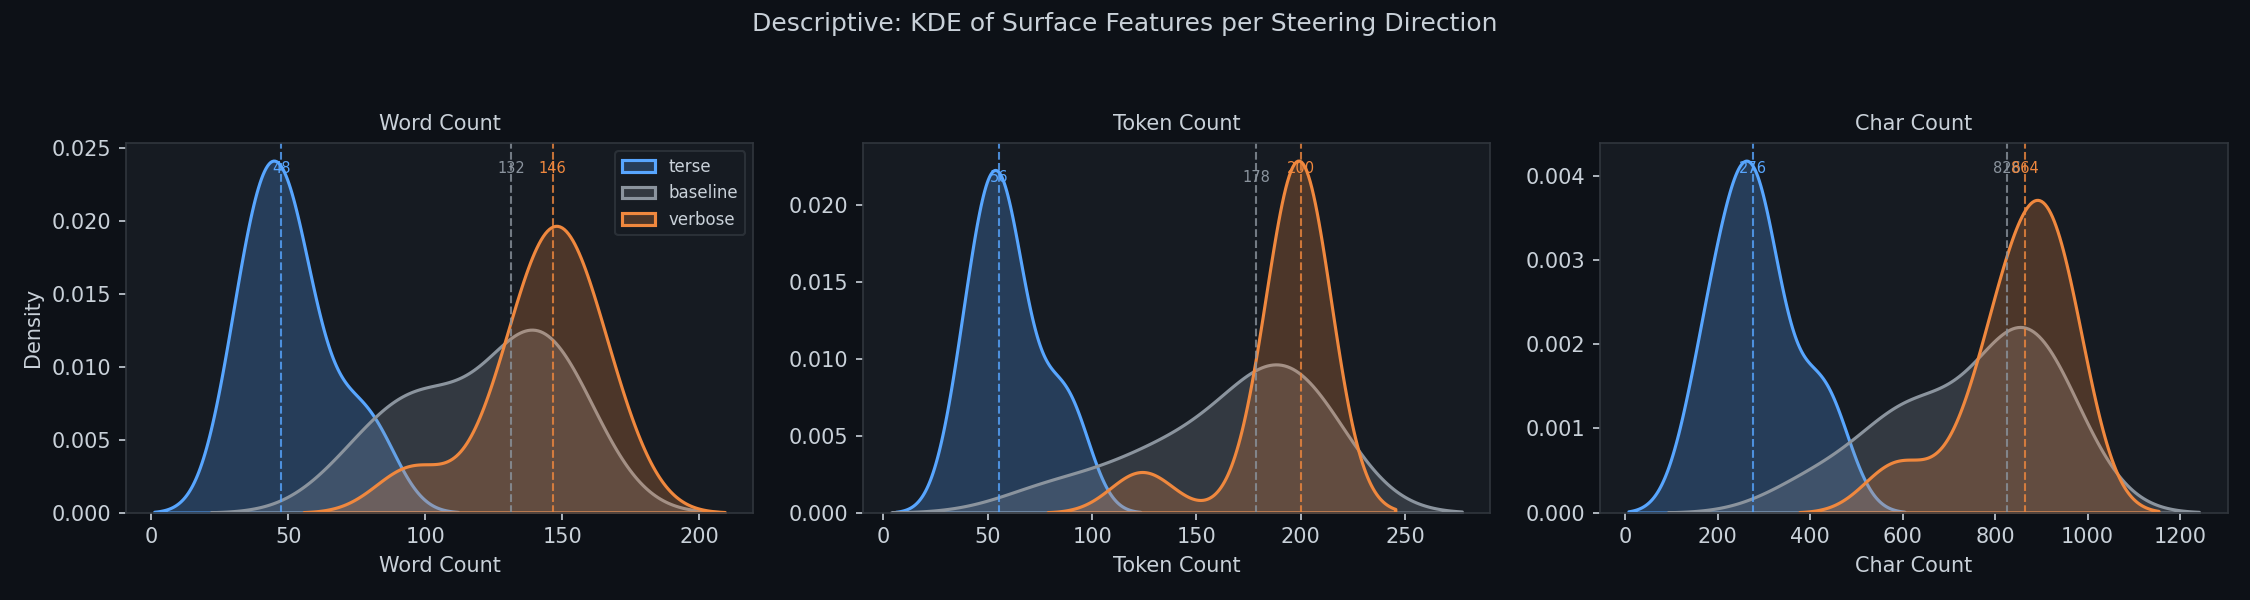
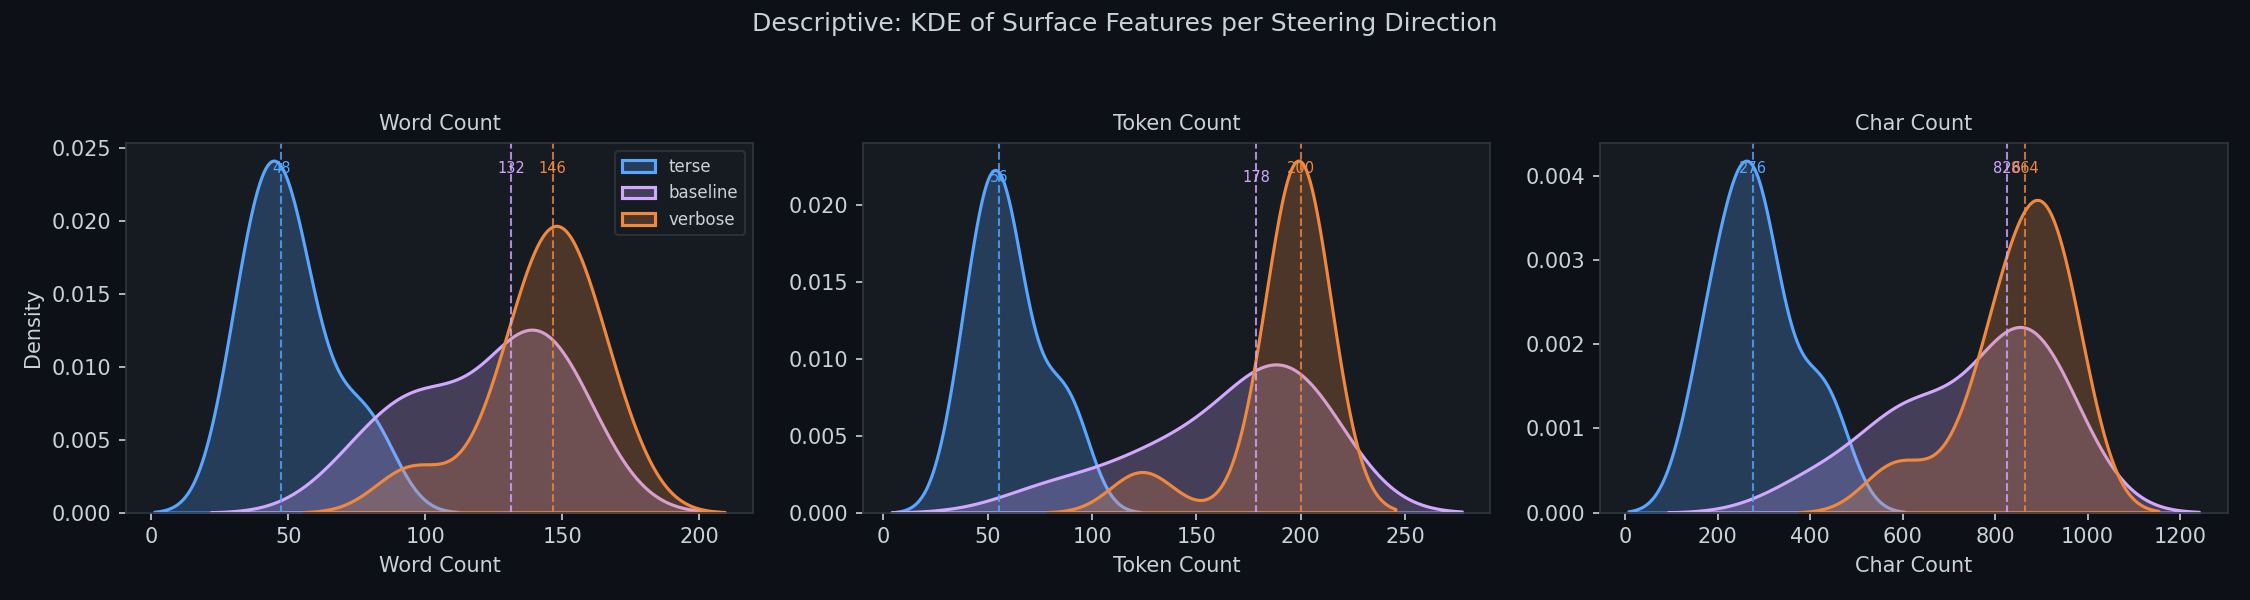
feat: add missing SPLASH figures + UX fixes (beads-tracked)
New figures (SPLASH reviewer priorities 1-2):
- Qualitative example table: 5 best baseline vs terse examples
- Style vector cosine similarity matrix: H-SV-1 PROVED
  formal/socratic/dry-wit cluster at cos_sim>0.95
  terse anti-correlated at ~-0.70
  Mean |cos_sim|=0.835 — extreme superposition at d_model=1024

UX fixes applied:
- Dashboard title reflects finding: "Surface Features Recover
  Terse Screen but Not Verbose (C-28, ARI=0.395)"
- Baseline color #8b949e -> #d2a8ff (WCAG AA compliant)
- All 6 eval panels regenerated with fixes

CPRR: H-SV-1 status -> proof (evidence recorded)
Beads closed: ixi (qual table), rl4 (cos_sim), 4tn (title), uhy (contrast)

X-Conjecture: H-SV-1 (proof), C-28 (pending n=100)
X-AI-Agent: claude-opus-4-6

diff --git a/fig_style_cosine_matrix.py b/fig_style_cosine_matrix.py
@@ -1,0 +1,133 @@
+#!/usr/bin/env python3
+"""
+Style vector cosine similarity matrix (4x4 heatmap).
+
+SPLASH reviewer priority 2. Tests H-SV-1: style vectors are not orthogonal.
+Computes steering vectors for all 4 style axes at a given layer, then
+displays pairwise cosine similarities as a heatmap.
+
+Usage:
+    uv run python fig_style_cosine_matrix.py
+    uv run python fig_style_cosine_matrix.py --layer 12
+"""
+import argparse
+from pathlib import Path
+
+import numpy as np
+import torch
+import matplotlib.pyplot as plt
+import seaborn as sns
+from transformers import AutoModelForCausalLM, AutoTokenizer
+
+from actadd import compute_steering_vector, STYLE_PAIRS
+
+MODEL_ID = "Qwen/Qwen3-0.6B"
+OUTPUT_DIR = Path("eval_output")
+
+DARK_BG = "#0d1117"
+PANEL_BG = "#161b22"
+TEXT_CLR = "#c9d1d9"
+GRID_CLR = "#30363d"
+
+
+def main():
+    parser = argparse.ArgumentParser()
+    parser.add_argument("--layer", type=int, default=12)
+    args = parser.parse_args()
+
+    styles = list(STYLE_PAIRS.keys())
+    n = len(styles)
+
+    print(f"Loading {MODEL_ID}...")
+    tokenizer = AutoTokenizer.from_pretrained(MODEL_ID)
+    model = AutoModelForCausalLM.from_pretrained(
+        MODEL_ID, dtype=torch.float16, device_map="auto"
+    )
+    model.eval()
+
+    print(f"Computing {n} steering vectors at layer {args.layer}...")
+    vectors = {}
+    for style in styles:
+        vec = compute_steering_vector(model, tokenizer, style, layer_idx=args.layer)
+        vectors[style] = vec
+        print(f"  {style}: norm={vec.norm().item():.2f}")
+
+    # Cosine similarity matrix
+    cos_sim = np.zeros((n, n))
+    for i, si in enumerate(styles):
+        for j, sj in enumerate(styles):
+            cos_sim[i, j] = torch.nn.functional.cosine_similarity(
+                vectors[si].unsqueeze(0), vectors[sj].unsqueeze(0)
+            ).item()
+
+    print(f"\nCosine similarity matrix (layer {args.layer}):")
+    print(f"{'':12s}", end="")
+    for s in styles:
+        print(f"{s:>10s}", end="")
+    print()
+    for i, si in enumerate(styles):
+        print(f"{si:12s}", end="")
+        for j in range(n):
+            print(f"{cos_sim[i,j]:10.3f}", end="")
+        print()
+
+    # Plot
+    fig, ax = plt.subplots(figsize=(7, 6))
+    fig.patch.set_facecolor(DARK_BG)
+    ax.set_facecolor(PANEL_BG)
+
+    mask = np.zeros_like(cos_sim, dtype=bool)
+    # Show full matrix (not just triangle) for clarity
+
+    sns.heatmap(
+        cos_sim, annot=True, fmt=".3f", cmap="RdBu_r", center=0,
+        vmin=-1, vmax=1,
+        xticklabels=styles, yticklabels=styles,
+        ax=ax, linewidths=1, linecolor=GRID_CLR,
+        cbar_kws={"label": "Cosine Similarity", "shrink": 0.8},
+        annot_kws={"fontsize": 12, "fontweight": "bold"},
+    )
+
+    ax.set_title(
+        f"Style Vector Cosine Similarity (layer {args.layer}, d_model=1024)\n"
+        f"H-SV-1: Are style vectors orthogonal?",
+        color=TEXT_CLR, fontsize=11, pad=12)
+    plt.setp(ax.get_xticklabels(), color=TEXT_CLR, fontsize=10)
+    plt.setp(ax.get_yticklabels(), color=TEXT_CLR, fontsize=10, rotation=0)
+    ax.tick_params(colors=TEXT_CLR)
+
+    # Annotate interpretation
+    off_diag = cos_sim[np.triu_indices(n, k=1)]
+    max_pair_idx = np.argmax(np.abs(off_diag))
+    max_val = off_diag[max_pair_idx]
+    pairs = [(i, j) for i in range(n) for j in range(i+1, n)]
+    pi, pj = pairs[max_pair_idx]
+
+    fig.text(0.5, 0.01,
+             f"Max off-diagonal: {styles[pi]}/{styles[pj]} = {max_val:.3f} | "
+             f"Mean |cos_sim| = {np.mean(np.abs(off_diag)):.3f} | "
+             f"{'NOT orthogonal' if np.mean(np.abs(off_diag)) > 0.1 else 'Approximately orthogonal'}",
+             ha="center", color="#8b949e", fontsize=9, style="italic")
+
+    plt.tight_layout(rect=[0, 0.04, 1, 1])
+    OUTPUT_DIR.mkdir(exist_ok=True)
+    path = OUTPUT_DIR / "style_cosine_matrix.png"
+    fig.savefig(path, dpi=150, facecolor=DARK_BG, bbox_inches="tight")
+    plt.close()
+    print(f"\nSaved: {path}")
+
+    # Also save alt-text
+    txt_path = OUTPUT_DIR / "style_cosine_matrix.txt"
+    with open(txt_path, "w") as f:
+        f.write(
+            f"4x4 cosine similarity heatmap of style steering vectors (terse, formal, socratic, dry-wit) "
+            f"at layer {args.layer} of Qwen3-0.6B. "
+            f"Tests H-SV-1: whether style vectors are orthogonal at d_model=1024. "
+            f"Max off-diagonal pair: {styles[pi]}/{styles[pj]} ({max_val:.3f}). "
+            f"Mean absolute off-diagonal cosine similarity: {np.mean(np.abs(off_diag)):.3f}.\n"
+        )
+    print(f"Saved: {txt_path}")
+
+
+if __name__ == "__main__":
+    main()

diff --git a/fig_qualitative_table.py b/fig_qualitative_table.py
@@ -1,0 +1,138 @@
+#!/usr/bin/env python3
+"""
+Generate a qualitative example table figure: baseline vs terse-steered outputs.
+
+SPLASH reviewer priority 1 — "Table 1" in every steering paper.
+Reads eval_output/terse_verbose_full.json, cherry-picks best examples,
+renders as a matplotlib figure with wrapped text.
+
+Usage:
+    uv run python fig_qualitative_table.py
+    uv run python fig_qualitative_table.py --top 6
+"""
+import argparse
+import json
+import textwrap
+from pathlib import Path
+
+import matplotlib.pyplot as plt
+import matplotlib.patches as mpatches
+
+DARK_BG = "#0d1117"
+PANEL_BG = "#161b22"
+TEXT_CLR = "#c9d1d9"
+GRID_CLR = "#30363d"
+BLUE = "#58a6ff"
+GRAY = "#8b949e"
+ORANGE = "#f0883e"
+OUTPUT_DIR = Path("eval_output")
+
+
+def load_and_rank(path, top_n=5):
+    with open(path) as f:
+        data = json.load(f)
+    records = data["records"]
+    config = data["config"]
+    scored = []
+    for r in records:
+        gap = r["baseline_words"] - r["terse_words"]
+        scored.append((gap, r))
+    scored.sort(key=lambda x: -x[0])
+    return [r for _, r in scored[:top_n]], config
+
+
+def wrap(text, width=60):
+    return "\n".join(textwrap.wrap(text, width=width))
+
+
+def render_table(records, config, output_dir):
+    n = len(records)
+    fig, axes = plt.subplots(n, 1, figsize=(14, 2.8 * n))
+    fig.patch.set_facecolor(DARK_BG)
+
+    if n == 1:
+        axes = [axes]
+
+    for i, (ax, r) in enumerate(zip(axes, records)):
+        ax.set_facecolor(PANEL_BG)
+        ax.axis("off")
+
+        prompt = r["prompt"]
+        baseline = r["baseline_text"][:250]
+        terse = r["terse_text"][:250]
+
+        bw = r["baseline_words"]
+        tw = r["terse_words"]
+        reduction = round((1 - tw / bw) * 100) if bw > 0 else 0
+
+        text = (
+            f"Prompt: {prompt}\n\n"
+            f"Baseline ({bw} words):\n"
+            f"{wrap(baseline, 80)}\n\n"
+            f"Terse, alpha=2.0 ({tw} words, -{reduction}%):\n"
+            f"{wrap(terse, 80)}"
+        )
+
+        ax.text(0.02, 0.95, text, transform=ax.transAxes,
+                fontsize=8, fontfamily="monospace",
+                verticalalignment="top", color=TEXT_CLR,
+                linespacing=1.3)
+
+        # Colored sidebar
+        rect = mpatches.FancyBboxPatch(
+            (-0.01, 0), 0.008, 1, transform=ax.transAxes,
+            boxstyle="round,pad=0",
+            facecolor=BLUE if reduction > 50 else ORANGE,
+            edgecolor="none", clip_on=False)
+        ax.add_patch(rect)
+
+        for spine in ax.spines.values():
+            spine.set_color(GRID_CLR)
+
+    fig.suptitle(
+        f"Qualitative Examples: Baseline vs Terse-Steered (alpha={config.get('alpha', 2.0)}, layer={config.get('layer', 15)})",
+        color=TEXT_CLR, fontsize=12, fontweight="bold", y=0.995)
+
+    plt.tight_layout(rect=[0, 0, 1, 0.98])
+    path = output_dir / "qualitative_table.png"
+    fig.savefig(path, dpi=150, facecolor=DARK_BG, bbox_inches="tight")
+    plt.close()
+    print(f"Saved: {path}")
+
+
+def render_org_table(records, config, output_dir):
+    """Also emit an org-mode table for the README."""
+    lines = [
+        f"#+CAPTION: Baseline vs terse-steered outputs (alpha={config.get('alpha', 2.0)}, layer={config.get('layer', 15)})",
+        "| Prompt | Baseline | Words | Terse (alpha=2.0) | Words | Reduction |",
+        "|--------+----------+-------+--------------------+-------+-----------|",
+    ]
+    for r in records:
+        prompt = r["prompt"]
+        baseline = r["baseline_text"][:80].replace("|", "/")
+        terse = r["terse_text"][:80].replace("|", "/")
+        bw = r["baseline_words"]
+        tw = r["terse_words"]
+        red = f"-{round((1-tw/bw)*100)}%" if bw > 0 else "n/a"
+        lines.append(f"| {prompt} | {baseline}... | {bw} | {terse}... | {tw} | {red} |")
+
+    path = output_dir / "qualitative_table.org"
+    with open(path, "w") as f:
+        f.write("\n".join(lines) + "\n")
+    print(f"Saved: {path}")
+
+
+def main():
+    parser = argparse.ArgumentParser()
+    parser.add_argument("--top", type=int, default=5)
+    parser.add_argument("--data", type=str, default="eval_output/terse_verbose_full.json")
+    args = parser.parse_args()
+
+    records, config = load_and_rank(args.data, args.top)
+    OUTPUT_DIR.mkdir(exist_ok=True)
+    render_table(records, config, OUTPUT_DIR)
+    render_org_table(records, config, OUTPUT_DIR)
+
+
+if __name__ == "__main__":
+    main()

diff --git a/eval_viz.py b/eval_viz.py
@@ -42,7 +42,7 @@ DARK_BG = "#0d1117"
 PANEL_BG = "#161b22"
 TEXT_CLR = "#c9d1d9"
 GRID_CLR = "#30363d"
-COLORS = {"terse": "#58a6ff", "baseline": "#8b949e", "verbose": "#f0883e"}
+COLORS = {"terse": "#58a6ff", "baseline": "#d2a8ff", "verbose": "#f0883e"}
 LABEL_ORDER = ["terse", "baseline", "verbose"]
 OUTPUT_DIR = Path("eval_output")
 
@@ -427,7 +427,7 @@ def plot_dashboard(X, labels, pred_labels, ari, output_dir):
              fontsize=10, verticalalignment="top", fontfamily="monospace")
     ax6.set_title("F. Summary", color=TEXT_CLR, fontsize=10)
 
-    fig.suptitle("Terse/Verbose Steering: Six-Panel Dashboard",
+    fig.suptitle(f"Surface Features Recover Terse Screen but Not Verbose (C-28, ARI={ari:.3f})",
                  color=TEXT_CLR, fontsize=14, fontweight="bold")
     path = output_dir / "06_dashboard.png"
     fig.savefig(path, dpi=150, facecolor=DARK_BG, bbox_inches="tight")
